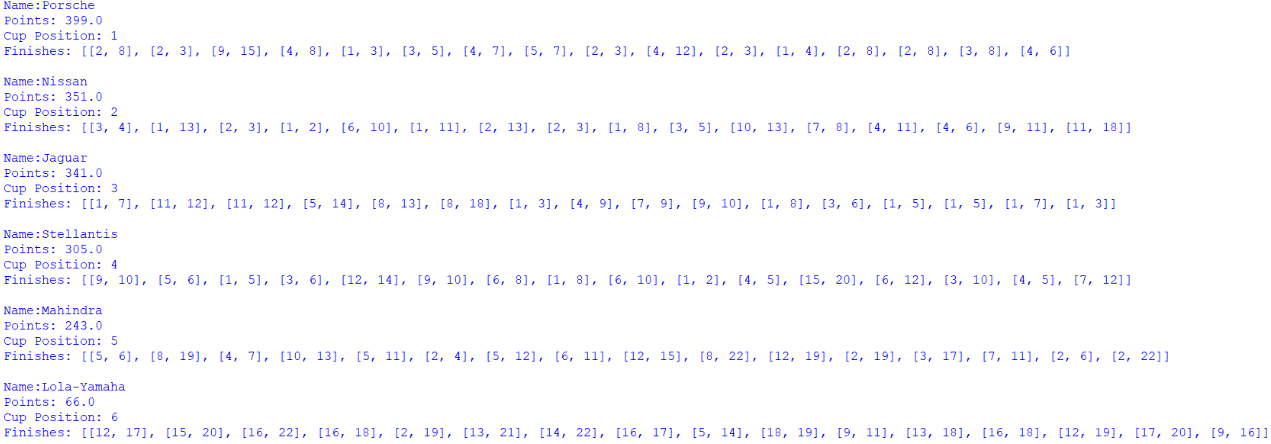
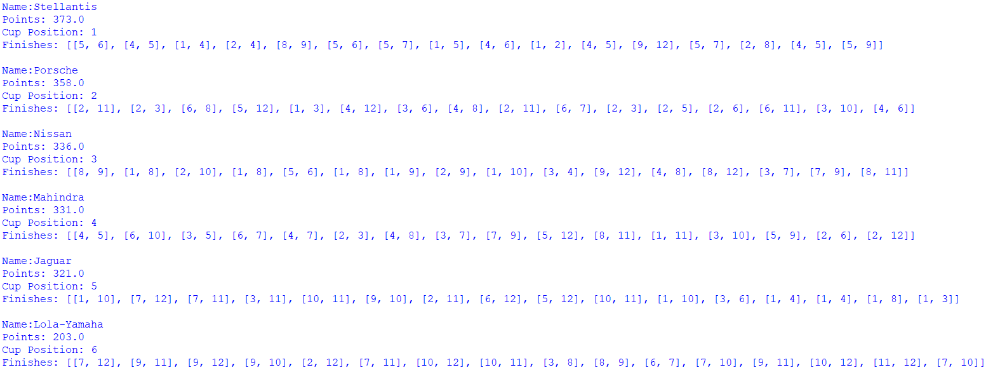
afepf updates
update manufacturer cups for season 10 + 11

diff --git a/content/blog/thirtyfifthpost/thirtyfifthpost.md b/content/blog/thirtyfifthpost/thirtyfifthpost.md
@@ -13,7 +13,7 @@ tags:
   <h1 class="col align-self-center">Podium Ceremony</h1>
   <div class="row justify-content-center">
     <p class="col-8">
-    This is my fourth update to my Alternative Formula E Points Format project. I have made a few quality-of-life improvements with update results functions and have the results of 2023/2024 (Season 10) season of Formula E using the BTCC points format along with the extra championships that the BTCC has. Having watched all of the races to keep track of who leads which lap, I think a great alteration to Formula E current points format would to be award points for leading laps. Formula E had considered something similar, as for this season the had thought of introducing a '<a href="https://www.the-race.com/formula-e/formula-e-golden-lap-plan-race-format-points/">Golden Lap</a>', where if you lead 2 specific laps that are randomly decided earlier before the ePrix, you earn bonus points. This was met with negativity from those with in the Formula E paddock and was swiftly <a href="https://www.the-race.com/formula-e/formula-e-bins-golden-lap-format-after-backlash/">dropped.</a>This is a good thing as I consider it to be a woeful idea that should have been immediately dismissed and never left the room it was discussed in, so it couldn't been leaked out to the media. Returning to earlier point about rewarding lap leading, I think drivers should score 1 point for each lap they lead, with drivers being able to score a maximum of 3 points this way. This creates an incentive for the drivers to lead laps, with the limit preventing from those who dominate the harder-to-pass races, such as Tokyo or London, from scoring a lot of points. <br />
+    This is my fourth update to my Alternative Formula E Points Format project. I have made a few quality-of-life improvements with update results functions and have the results of 2023/2024 (Season 10) season of Formula E using the BTCC points format along with the extra championships that the BTCC has. Having watched all of the races to keep track of who leads which lap, I think a great alteration to Formula E current points format would to be award points for leading laps. Formula E had considered something similar, as for this season the had thought of introducing a '<a href="https://www.the-race.com/formula-e/formula-e-golden-lap-plan-race-format-points/">Golden Lap</a>', where if you lead 2 specific laps that are randomly decided earlier before the ePrix, you earn bonus points. This was met with negativity from those with in the Formula E paddock and was swiftly <a href="https://www.the-race.com/formula-e/formula-e-bins-golden-lap-format-after-backlash/">dropped.</a>This is a good thing as I consider it to be a woeful idea that should have been immediately dismissed and never left the room it was discussed in, so it couldn't have been leaked out to the media. Returning to earlier point about rewarding lap leading, I think drivers should score 1 point for each lap they lead, with drivers being able to score a maximum of 3 points this way. This creates an incentive for the drivers to lead laps, with the limit preventing from those who dominate the harder-to-pass races, such as Tokyo or London, from scoring a lot of points. <br />
     As always, all files and documents are found in the GitHub repository: <a href="https://github.com/CulverT01/altfepointsformat">https://github.com/CulverT01/altfepointsformat</a><br/>
     Please note that I have removed the username and password for the database from the admin program in the interest of security, but not from the viewer program as the user signed on there has read only permissions.
     </p>
@@ -60,7 +60,7 @@ tags:
     {% image "./afepf_customer_teams_p1-4.png", "Screenshot of the Customer Teams' Championship, outputted by afepf_viewer_program.py" %}
     <h3 class="row">Manufacturers' Cup</h3>
     <p class="col-8">
-    Like with the overall Teams' Championship, Jaguar wins the cup with 436 points from Porsche, who has 433 points, and are the only manufacturers who score less than what they did under the current format. There is also a change of position between Stellantis and Nissan, with Stellantis finishing ahead of Nissan under my alternate format as opposed to finishing behind Nissan under the current format. This is down to Nissan's poor weekend in Portland, as losing their only star driver Oliver Rowland to illness, the inconsistent results that the McLaren team produced, and uncompetitive pace that both Sacha Fenestraz and Caio Collet had; means it hits harder when your rival has 2 drivers consistently scoring top 10 finishes.<br/>
+    Jaguar wins the cup with 415 points from Stellantis, who has 390 points, while Jaguar and Porsche are the only ones who fail to outscore their real life total. In their defence, the championship in real life awards points based the top 2 overall finishing positions for a manufacturer (customer entrants are included, so Porsche get to claim the points from Jake Dennis' win in Diriyah), whereas in the BTCC it is similar to Customer Teams' Championship, in that they score points based on where they finished respective to their fellow manufacturer competitors. Also customer teams can't score points for their manufacturers, so using the example given earlier, Jake Dennis' win would not contribute to Porsche's manufacturer's points. Mahindra and Electric Racing Technologies switch places for a similar reason to what happened to McLaren in the Customer Teams' Championship: poor reliability costs them in championships that require consistency to those who finish behind them in the overall Teams' Championship.<br/>
     Below are the Manufacturers' Cup standings:
     </p>
     {% image "./afepf_manufacturers_p1-6.png", "Screenshot of the Manufacturers' Cup standings, outputted by afepf_viewer_program.py" %}

diff --git a/content/blog/fiftysecondpost/fiftysecondpost.md b/content/blog/fiftysecondpost/fiftysecondpost.md
@@ -57,7 +57,7 @@ tags:
     {% image "./afepf11_customer_teams_p1-4.png", "Screenshot of the Customer Teams' Championship, outputted by afepf_viewer_program.py" %}
     <h3 class="row">Manufacturers' Cup</h3>
     <p class="col-8">
-    Porsche wins the cup with 399 points from Nissan, who has 351 points, also all manufacturers score more points under the alternate points format than in real life. There is also a change of position between Jaguar and Nissan, with Nissan finishing ahead of Jaguar under my alternate format as opposed to finishing behind Jaguar under the current format. This is down to Jaguar's poor performance for most of the season, so much so that at one point, they are behind Mahindra in the standings, who have 2 less cars then them. Also, unlike last season, the manufacturer points aren't a true one-to-one comparison, as in real life the points are awarded based on grid of 12 formed by taking the top 2 cars for each manufacturer (DS and Maserati count as Stellantis) and ignoring the other entrants for the manufacturer. This means that if Jaguar won a race and had their second car down in 6th while Porsche filled out positions 2-5, Jaguar would score 37 points towards the manufacturer's title as in the grid they have a 1st and a 4th, not a 1st and a 6th like would be counted under the alternative points format.<br/>
+    Stellantis wins the cup with 373 points from Porsche, who has 358 points, also all bar Porsche and Nissan score more points under the alternate points format than in real life. Only Nissan and Lola are in the same position in the championship as they are in real life. The explanations for why there is such is difference is down to less points for the top 2 positions which hurt Jaguar and Nissan, the difference between the alternative format's and Formula E's is that customer team entrants can't score points for a manufacturer (which differs from real life where they can) so that hurts Porsche, the 2 Stellantis brands count (DS and Maserati) as one therefore Stellantis has 4 horses in the race compared to everyone's 2 and it takes more to go wrong for them to have a bad result. <br/>
     Below are the Manufacturers' Cup standings:
     </p>
     {% image "./afepf11_manufacturers_p1-6.png", "Screenshot of the Manufacturers' Cup standings, outputted by afepf_viewer_program.py" %}
